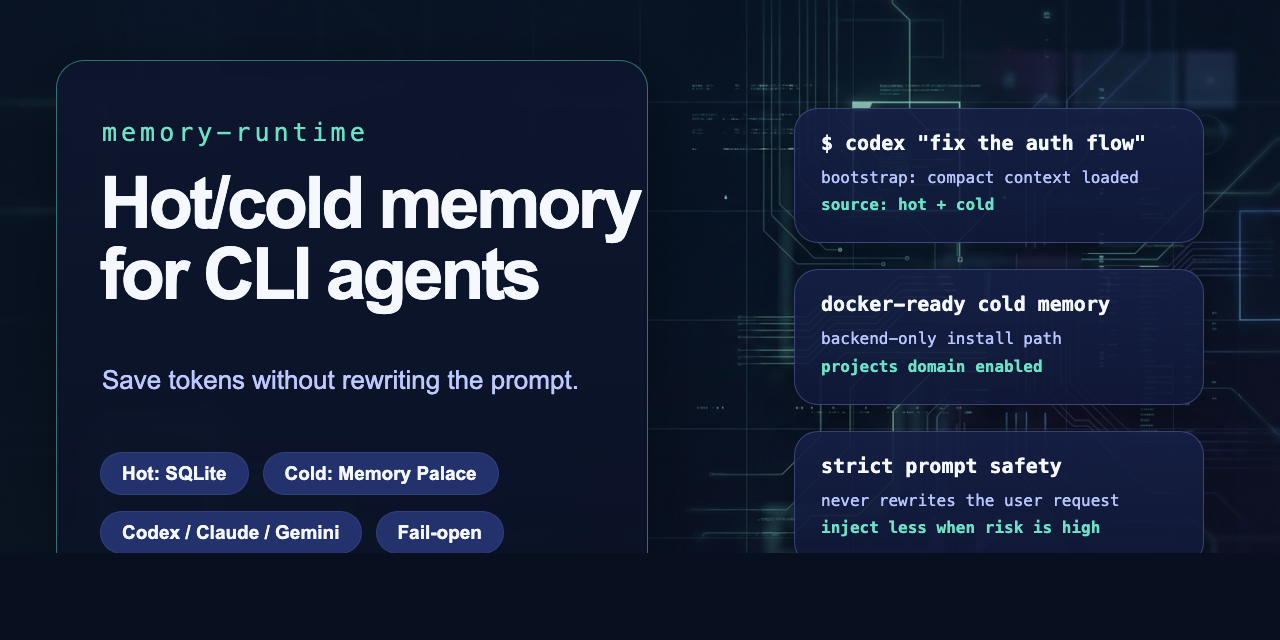
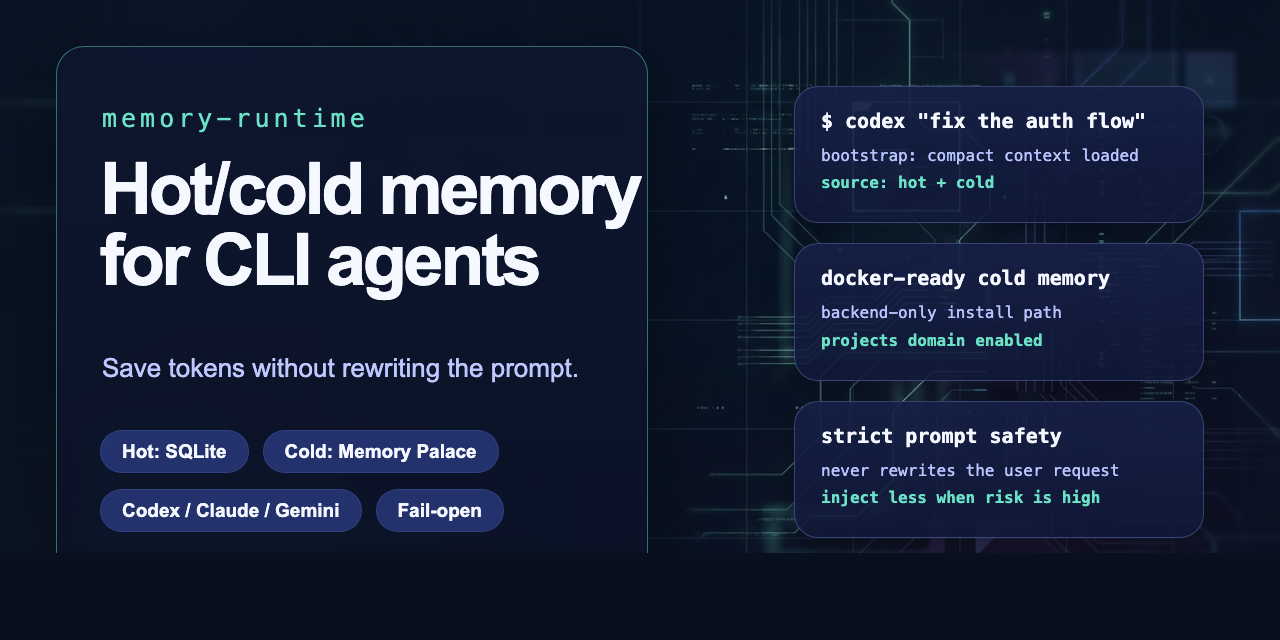
fix(repo): tighten social preview composition

diff --git a/assets/social-preview-compose.html b/assets/social-preview-compose.html
@@ -27,9 +27,9 @@
       .panel {
         position: absolute;
         left: 56px;
-        top: 60px;
+        top: 46px;
         width: 590px;
-        height: 520px;
+        height: 548px;
         border-radius: 28px;
         background: linear-gradient(180deg, rgba(14, 22, 47, 0.88), rgba(11, 18, 39, 0.82));
         border: 1px solid rgba(107, 225, 198, 0.45);
@@ -39,7 +39,7 @@
       .eyebrow {
         position: absolute;
         left: 102px;
-        top: 118px;
+        top: 104px;
         color: #6be1c6;
         font-size: 25px;
         letter-spacing: 0.16em;
@@ -48,7 +48,7 @@
       .title {
         position: absolute;
         left: 100px;
-        top: 168px;
+        top: 154px;
         width: 540px;
         color: #f6f8ff;
         font-size: 72px;
@@ -59,7 +59,7 @@
       .subtitle {
         position: absolute;
         left: 102px;
-        top: 364px;
+        top: 352px;
         width: 500px;
         color: #bcc8ff;
         font-size: 26px;
@@ -69,7 +69,7 @@
       .pill-row {
         position: absolute;
         left: 100px;
-        top: 452px;
+        top: 430px;
         display: flex;
         flex-wrap: wrap;
         gap: 16px 14px;
@@ -92,17 +92,17 @@
       .stack {
         position: absolute;
         right: 76px;
-        top: 108px;
+        top: 86px;
         display: flex;
         flex-direction: column;
-        gap: 26px;
+        gap: 20px;
         width: 410px;
       }
       .note {
         border-radius: 24px;
         background: linear-gradient(180deg, rgba(21, 31, 69, 0.92), rgba(16, 24, 56, 0.88));
         border: 1px solid rgba(159, 176, 255, 0.28);
-        padding: 22px 26px;
+        padding: 22px 26px 24px;
         box-shadow: 0 12px 32px rgba(0, 0, 0, 0.26);
       }
       .note-title {
@@ -123,6 +123,18 @@
       .note-line.accent {
         color: #6be1c6;
         font-weight: 700;
+      }
+      .footer-line {
+        position: absolute;
+        left: 0;
+        right: 0;
+        bottom: 34px;
+        display: flex;
+        justify-content: center;
+        color: rgba(184, 197, 255, 0.72);
+        font-size: 16px;
+        letter-spacing: 0.14em;
+        font-family: ui-monospace, SFMono-Regular, Menlo, monospace;
       }
     </style>
   </head>
@@ -155,6 +167,7 @@
           <div class="note-line accent">inject less when risk is high</div>
         </div>
       </div>
+      <div class="footer-line">fail-open memory runtime · github-first alpha</div>
     </div>
   </body>
 </html>
